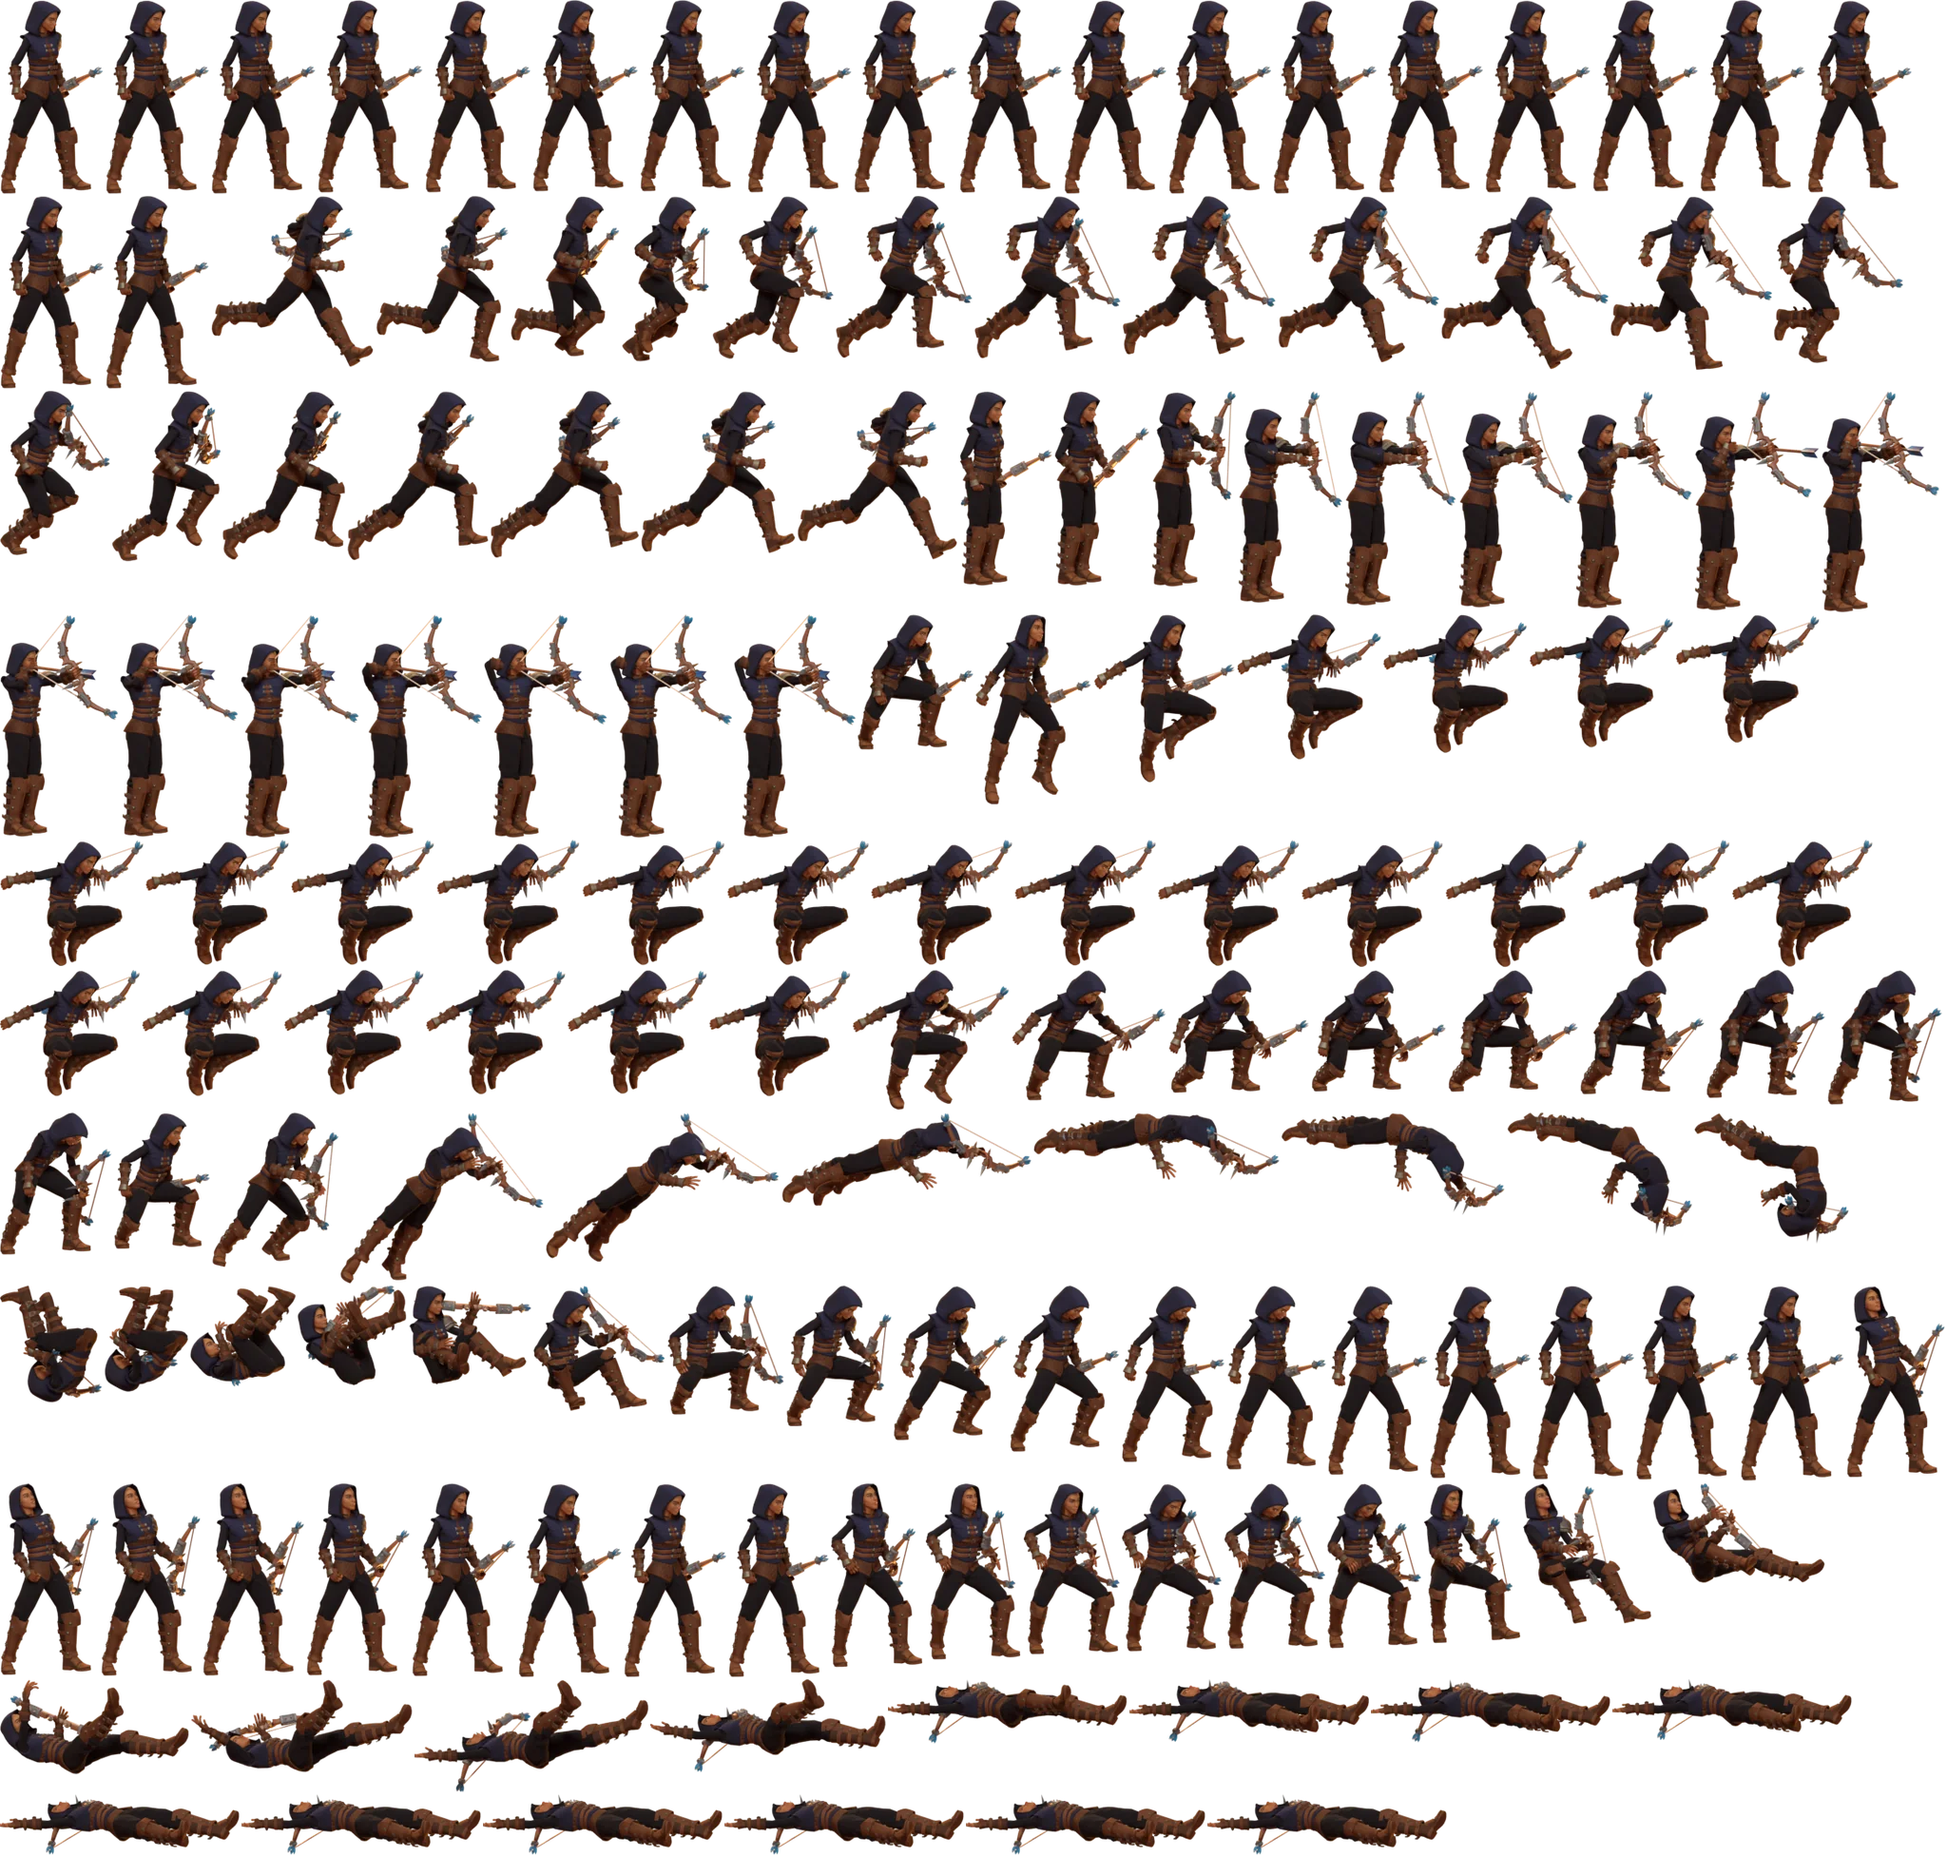
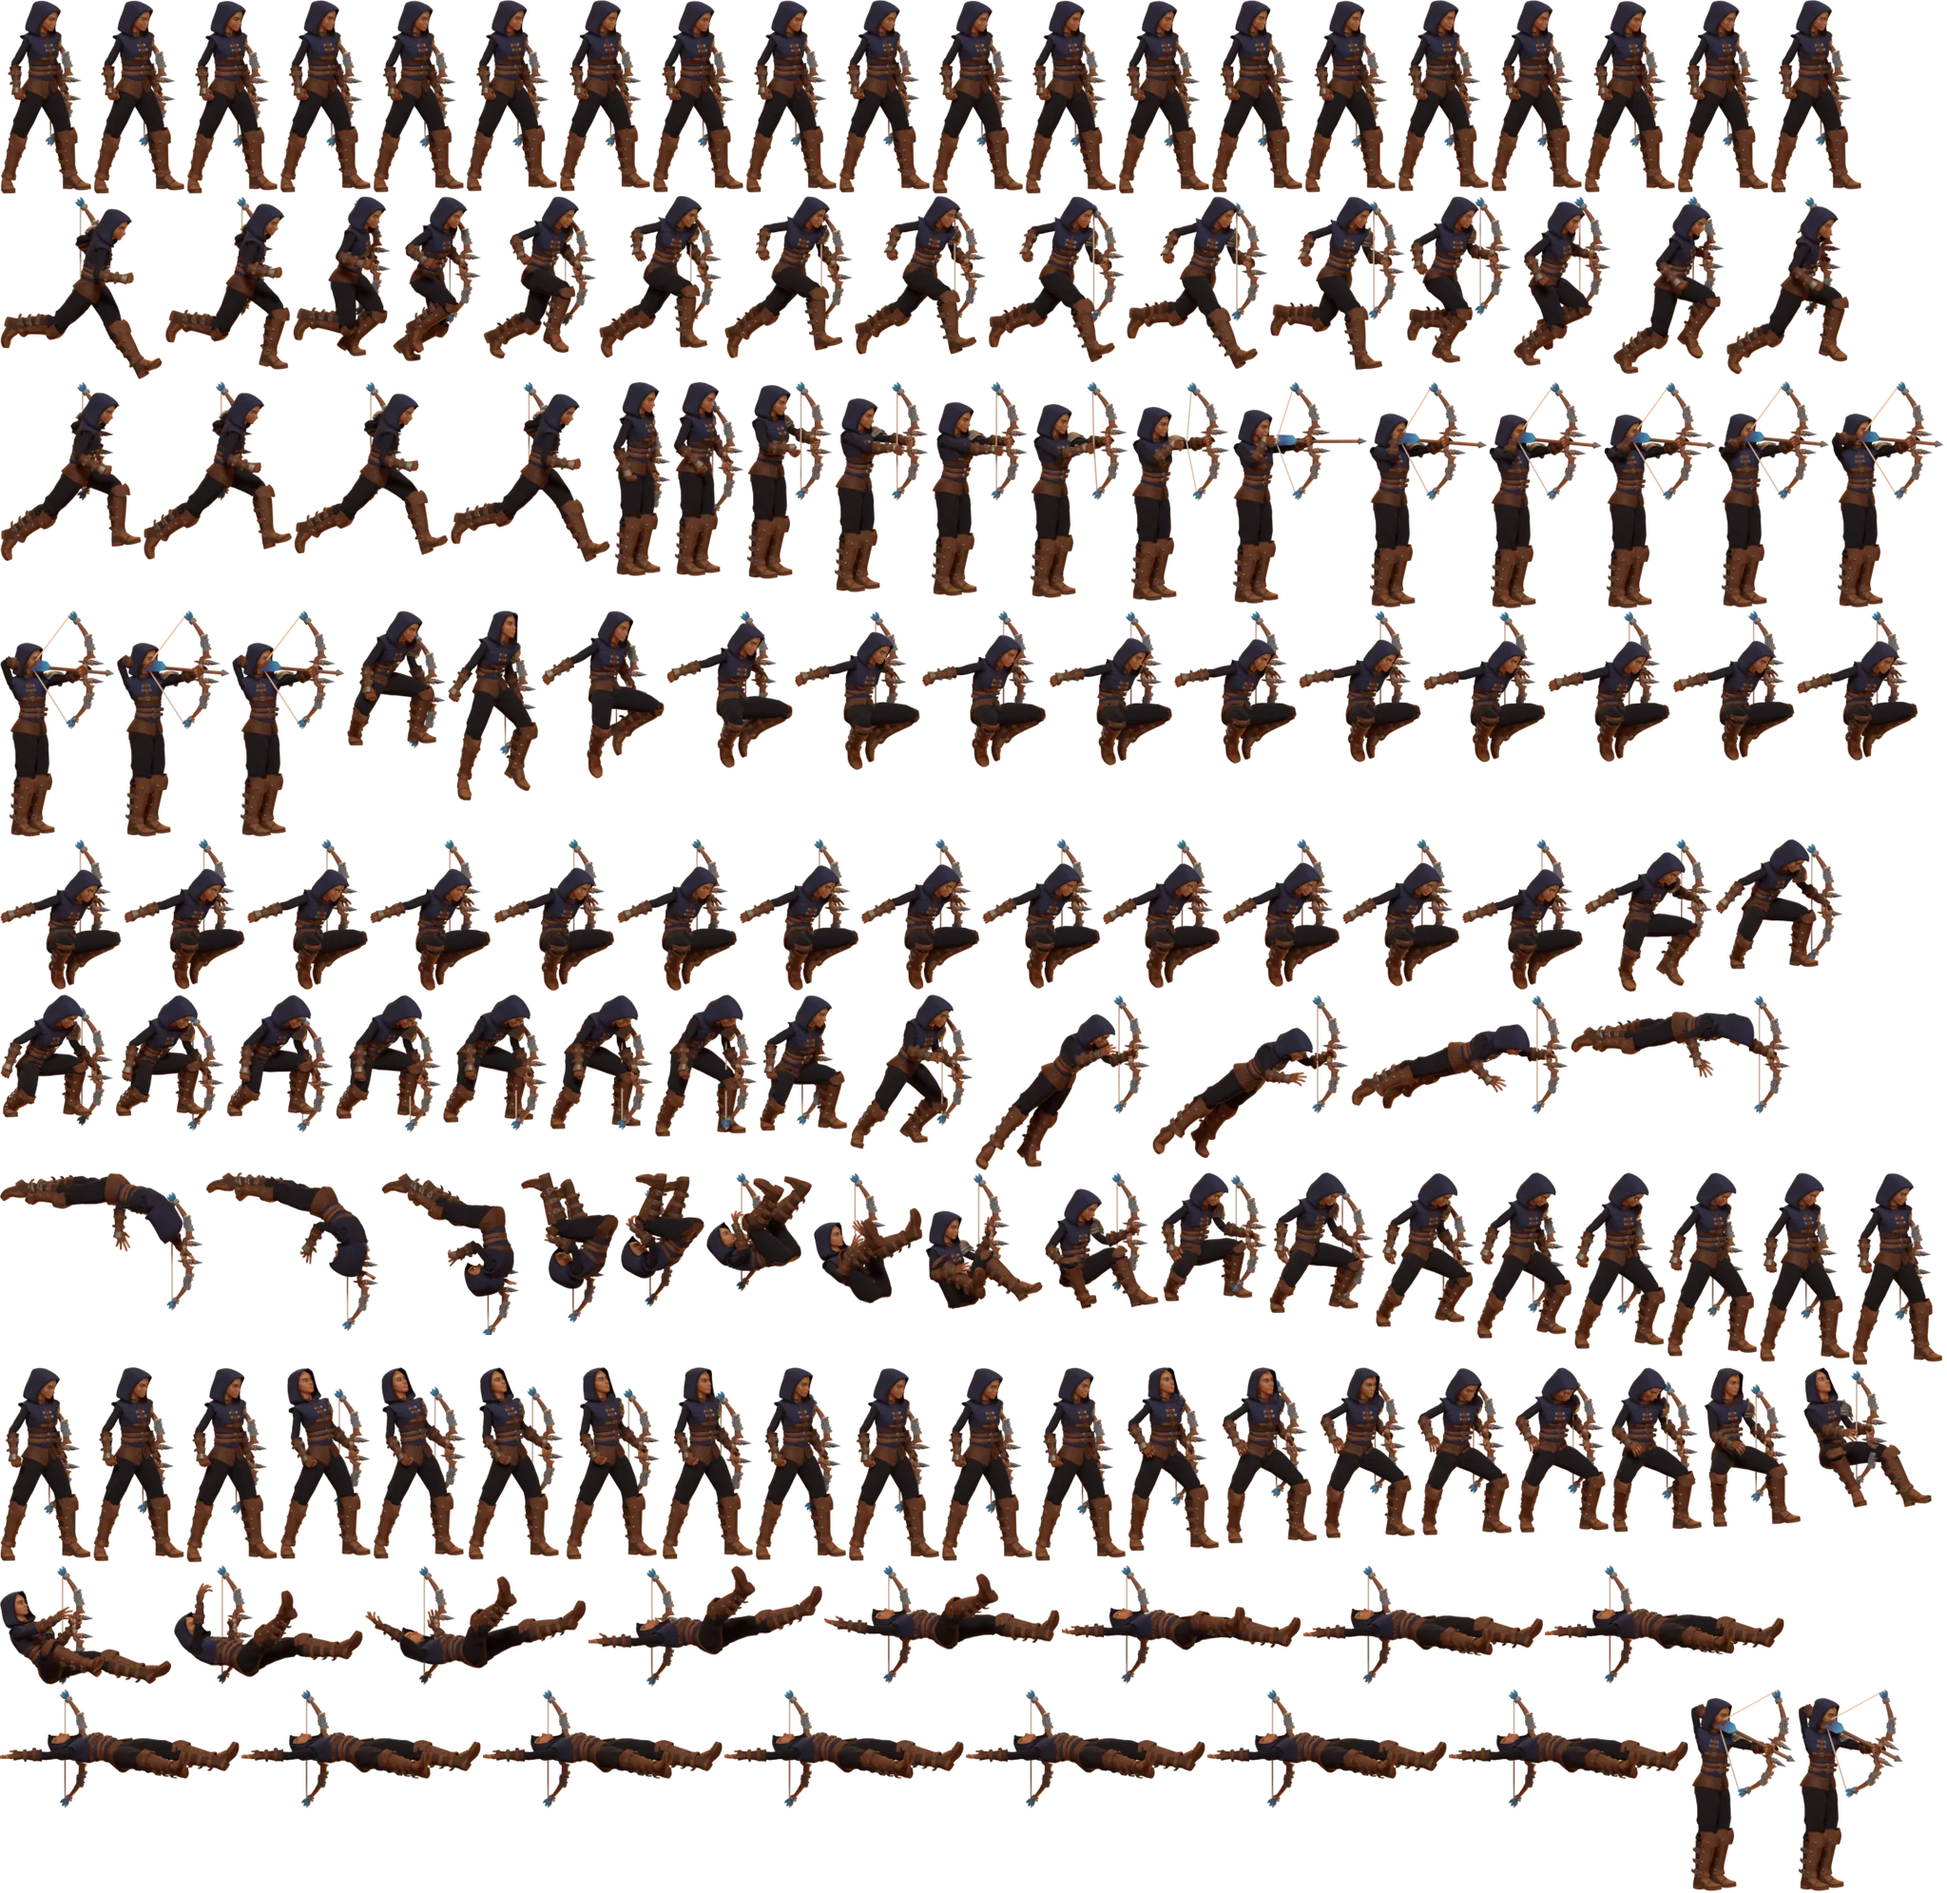
Archers hold the bow and arrow right; arrows leave from the drawn bow; no flat line when turning
- Animal World: facing came from the analog stick value, so mid-turn the sprite
  was scaled to a thin line. Facing is a flip (+1 / -1) now.
- Archers re-rendered (all five): the bow is oriented every frame (upright, its
  back toward the target, string to the face, grip in the palm) instead of
  following the hand bone; the arrow was mounted backwards (fletching at the
  bow) and is now nocked fletching-first, longer, head past the bow.
- 7 aim poses at on-screen angles -25..50; each frame carries where its arrow is
  drawn (nock / grip / tip). Hell fires from that exact point and shows the pose
  nearest the stick's angle; the flying arrow matches the drawn one.

diff --git a/worlds/hell.js b/worlds/hell.js
@@ -609,8 +609,38 @@ void main(){
       if (e.type === 'ghoul') return e.y - 45;
       return e.y - 38;
     }
+    // The archer sprite has 7 aim poses (hold_<deg>); each frame carries where its nocked arrow is
+    // drawn (nock / tip, exported from the 3D render). The arrow is fired from that exact spot, and
+    // the pose shown is the one whose drawn arrow is closest to the stick's angle.
+    const HERO_H = 132;
+    let aimVars = null, arrowLen = 37;
+    function aimVariants() {
+      if (aimVars) return aimVars;
+      const HA = env.hero, out = [];
+      if (!HA.ready) return [{ tag: '0', ang: 0 }];
+      for (const n of HA.names()) {
+        if (!n.startsWith('hold_')) continue;
+        const pose = { anim: n, t: 0, facing: 1, height: HERO_H }, a = HA.point(pose, 'nock'), b = HA.point(pose, 'tip');
+        const ang = a && b ? Math.atan2(-(b.y - a.y), b.x - a.x) : (+n.slice(5).replace('m', '-') || 0) * Math.PI / 180;
+        if (a && b && n === 'hold_0') arrowLen = Math.hypot(b.x - a.x, b.y - a.y);
+        out.push({ tag: n.slice(5), ang });
+      }
+      return (aimVars = out.length ? out : [{ tag: '0', ang: 0 }]);
+    }
+    function aimTag(rad) {
+      let best = null;
+      for (const v of aimVariants()) if (!best || Math.abs(v.ang - rad) < Math.abs(best.ang - rad)) best = v;
+      return best.tag;
+    }
     function bowOrigin() {
-      return { x: hero.x + hero.face * Math.cos(hero.aim) * 30, y: hero.y - 40 - Math.sin(hero.aim) * 19 };
+      const h = hero, HA = env.hero;
+      if (HA.ready) {
+        const pose = { anim: 'hold_' + aimTag(h.aim), t: tAll, facing: h.face, height: HERO_H };
+        const tip = HA.point(pose, 'tip');
+        // the flying arrow's point sits 10 px behind its drawn head, so it leaves the bow exactly where the nocked one was
+        if (tip) return { x: h.x + tip.x - h.face * Math.cos(h.aim) * 10, y: h.y + tip.y + Math.sin(h.aim) * 10 };
+      }
+      return { x: h.x + h.face * Math.cos(h.aim) * 30, y: h.y - 40 - Math.sin(h.aim) * 19 };
     }
     const ARROW_G = 360, AIM_MIN = -0.45, AIM_MAX = 0.87;     // flat, fast arrows; aim -25..50 deg
     const arrowSpeed = draw => 760 + 640 * draw;
@@ -1731,15 +1761,15 @@ void main(){
         c.save(); c.translate(x, y); c.rotate(ang);
         c.globalAlpha = a.ground || a.stuck ? clamp(a.life / 0.6, 0, 1) : 1;
         if (a.fire && !a.ground) { c.globalCompositeOperation = 'lighter'; c.drawImage(env.glowSprite('255,140,40'), -26, -9, 40, 18); c.globalCompositeOperation = 'source-over'; }
-        const back = a.stuck || a.ground ? 0 : 0;
-        c.strokeStyle = '#c9a26a'; c.lineWidth = 1.8;
-        c.beginPath(); c.moveTo(-22 + back, 0); c.lineTo(a.stuck || a.ground ? 2 : 4, 0); c.stroke();
-        if (!a.stuck && !a.ground) { c.fillStyle = '#e1e5ea'; c.beginPath(); c.moveTo(4, -2.6); c.lineTo(10, 0); c.lineTo(4, 2.6); c.closePath(); c.fill(); }
-        c.fillStyle = a.fire ? '#ffb347' : '#b8322a';
-        c.beginPath(); c.moveTo(-22, 0); c.lineTo(-27, -3.2); c.lineTo(-19, 0); c.lineTo(-27, 3.2); c.closePath(); c.fill();
+        const tail = -(Math.max(26, arrowLen) - 10);            // same length as the arrow drawn on the bow
+        c.strokeStyle = '#8a5a34'; c.lineWidth = 1.8;
+        c.beginPath(); c.moveTo(tail, 0); c.lineTo(a.stuck || a.ground ? 2 : 4, 0); c.stroke();
+        if (!a.stuck && !a.ground) { c.fillStyle = '#9aa3ad'; c.beginPath(); c.moveTo(4, -2.6); c.lineTo(10, 0); c.lineTo(4, 2.6); c.closePath(); c.fill(); }
+        c.fillStyle = a.fire ? '#ffb347' : '#3f7fd0';                        // blue fletching, like the rendered arrow
+        c.beginPath(); c.moveTo(tail + 6, 0); c.lineTo(tail - 1, -3.4); c.lineTo(tail + 1, 0); c.lineTo(tail - 1, 3.4); c.closePath(); c.fill();
         if (!a.stuck && !a.ground) {
           c.globalCompositeOperation = 'lighter'; c.strokeStyle = a.fire ? 'rgba(255,150,50,0.5)' : 'rgba(255,240,220,0.22)'; c.lineWidth = 2;
-          c.beginPath(); c.moveTo(-40, 0); c.lineTo(-22, 0); c.stroke();
+          c.beginPath(); c.moveTo(tail - 18, 0); c.lineTo(tail, 0); c.stroke();
         }
         c.restore();
       }
@@ -1805,8 +1835,6 @@ void main(){
       c.drawImage(env.glowSprite('255,110,40'), x - 40, y - 16, 80, 26); c.restore();
       if (env.hero.ready) {
         const HA = env.hero, has = n => HA.has(n);
-        const AIMS = [-25, 0, 25, 50];
-        const aimTag = rad => { const d = rad * 180 / Math.PI; let best = 0; for (const v of AIMS) if (Math.abs(v - d) < Math.abs(best - d)) best = v; return String(best).replace('-', 'm'); };
         let anim = 'idle', at = tAll;
         if (h.rollT > 0 && has('roll')) { anim = 'roll'; at = HA.dur('roll') * clamp(1 - h.rollT / 0.5, 0, 0.98); }
         else if (h.drawing) {
@@ -1821,7 +1849,7 @@ void main(){
         }
         else if (Math.abs(h.vx) > 34) { anim = 'run'; at = h.runClock; }
         if (!has(anim)) anim = 'idle';
-        HA.draw(c, x, y, { anim, t: at, facing: h.face, height: 132, flash: h.hurtT > 0 ? h.hurtT / 0.32 : 0, shadow: h.onGround });
+        HA.draw(c, x, y, { anim, t: at, facing: h.face, height: HERO_H, flash: h.hurtT > 0 ? h.hurtT / 0.32 : 0, shadow: h.onGround });
         if (h.drawing) aimGuide(c);
       } else env.drawHero(c, x, y, {
         facing: h.face, run: clamp(Math.abs(h.vx) / 192, 0, 1), phase: h.phase, air: !h.onGround, vy: h.vy,

diff --git a/worlds/world_core.js b/worlds/world_core.js
@@ -612,14 +612,15 @@ float voronoi(vec2 p){ vec2 i=floor(p), f=fract(p); float d=1.0;
     heroSets[set] = H;
     return H.p;
   }
+  function heroFrameIndex(an, t) {
+    const n = an.f.length, f = Math.floor(Math.max(0, t) * an.fps);
+    if (an.loop) return f % n;
+    if (an.pingpong && n > 1) { const p = f % (2 * n - 2); return p < n ? p : 2 * n - 2 - p; }
+    return Math.min(n - 1, f);
+  }
   function heroFrame(H, name, t) {
     const an = H.meta.anims[name] || H.meta.anims.idle;
-    const n = an.f.length, f = Math.floor(Math.max(0, t) * an.fps);
-    let i;
-    if (an.loop) i = f % n;
-    else if (an.pingpong && n > 1) { const p = f % (2 * n - 2); i = p < n ? p : 2 * n - 2 - p; }
-    else i = Math.min(n - 1, f);
-    return an.f[i];
+    return an.f[heroFrameIndex(an, t)];
   }
   function makeHeroApi(H) {
     return {
@@ -657,6 +658,18 @@ float voronoi(vec2 p){ vec2 i=floor(p), f=fract(p); float d=1.0;
         c.restore();
         return true;
       },
+      // a named point of the frame drawn for o (e.g. the archer's 'tip' / 'nock' / 'grip'), as an
+      // offset from the feet in app px, mirrored with o.facing — null if the frame has none
+      point(o, name) {
+        const an = H && H.ready && H.meta.anims[o.anim || 'idle'];
+        if (!an || !an.p) return null;
+        const q = an.p[heroFrameIndex(an, o.t || 0)], v = q && q[name];
+        if (!v) return null;
+        const k = (o.height || 110) / H.meta.charPx;
+        return { x: v[0] * k * (o.facing || 1), y: v[1] * k };
+      },
+      // anim names (to find e.g. every hold_<aim> variant)
+      names() { return H && H.ready ? Object.keys(H.meta.anims) : []; },
       // touch every sheet once so the first attack doesn't stall on a texture upload
       warm(c) { if (H && H.ready) for (const sh of H.sheets) c.drawImage(sh, 0, 0, 1, 1, -10, -10, 1, 1); }
     };

diff --git a/worlds/animal.js b/worlds/animal.js
@@ -378,7 +378,7 @@ void main(){
       } else {
         const maxV = (h.atk && h.ground ? 0.32 : 1) * 200;
         if (h.rollT <= 0) h.vx = approach(h.vx, mv * maxV, (h.ground ? 1500 : 950) * dt);
-        if (mv && !h.atk && h.hurtT <= 0) h.face = mv;
+        if (mv && !h.atk && h.hurtT <= 0) h.face = Math.sign(mv);   // face is a flip (±1), never the stick's analog value — that squashed the sprite to a line mid-turn
       }
       // jump (buffer + coyote + variable height)
       h.jumpBuf = I.pressed.jump ? 0.13 : h.jumpBuf - dt;

diff --git a/sw.js b/sw.js
@@ -1,6 +1,6 @@
 // Offline cache for the Drift & Bloom web app. Generated by tools/build_site.py.
-const CORE = 'drift-and-bloom-core-d3208a5f5e7a';
-const ASSETS = 'drift-and-bloom-assets-fab003d96f3a';
+const CORE = 'drift-and-bloom-core-19b3c0827045';
+const ASSETS = 'drift-and-bloom-assets-6dab383cc885';
 const CORE_FILES = [
   "./",
   "index.html",
